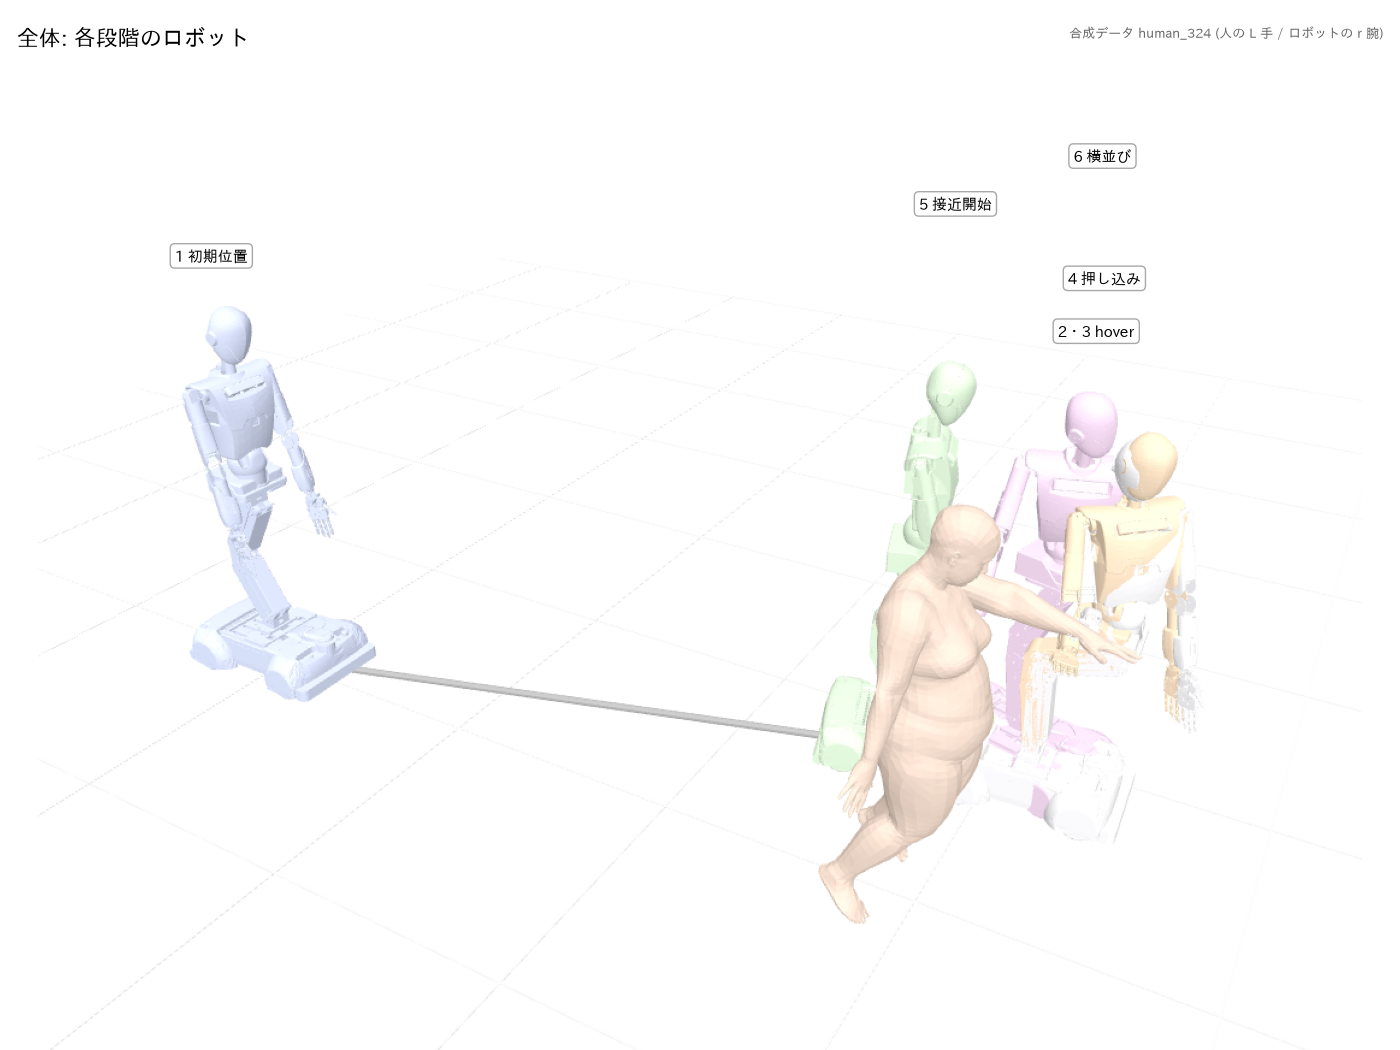
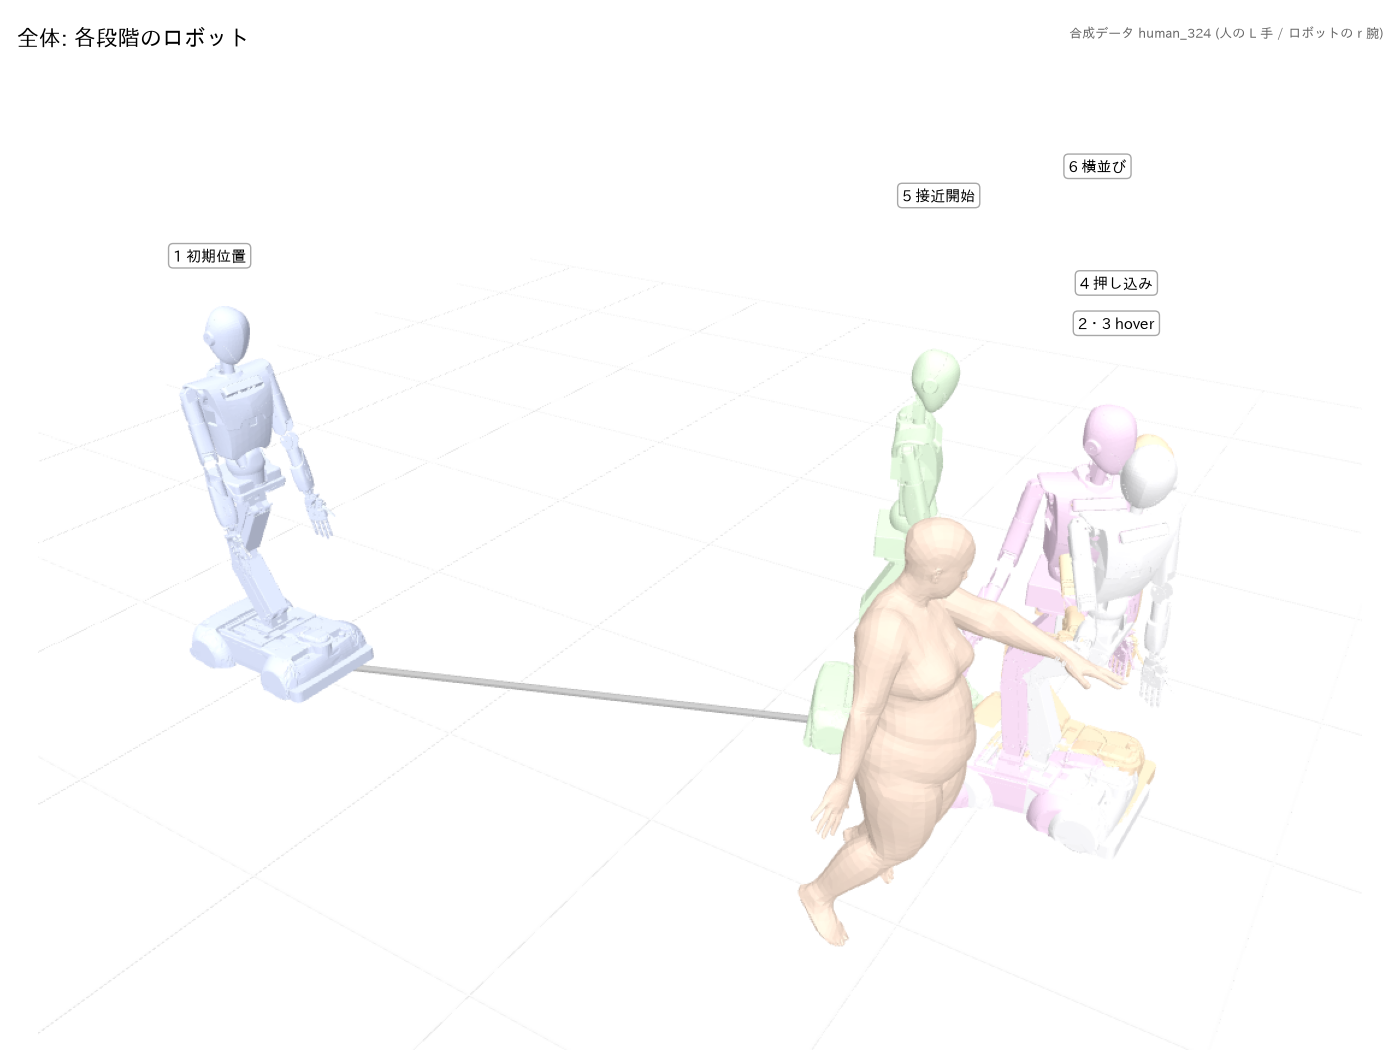
段階図を新しい hover・押し込みの実装に合わせて作り直す
段階別の図・説明 (docs/handshake_pipeline_stages.md) とツール
(tools/render_pipeline_stages.py) が、hover を変える前 (a756889 より前) の
計算方法のままだったので、コミット 45f8596 のコードで合成 400 人を計画し直して
画像を作り直した。

- hover 目標は押し込みの最終目標を法線方向に 3 cm 浮かせ、指先と逆に 15 cm
  ずらした位置。押し込みの手先目標の曲線を表示する。
- 第 1 段の干渉ペアは差し出した前腕 (2 cm で効くよう細らせた円柱) の 4 組。
- hover の検証と接近軌道は、差し出した手まわりだけ 2 cm (それ以外は 6 / 5 cm)。
  余裕の最小は実際の検証と同じ human_clearance_thresholds / shortfall で測る。
- 押し込みは曲線上の 8 点を腕の IK で解き、台車も指先方向へ近づく。各点を
  手まわり以外 5 cm で検証する。途中の点のロボットと台車の動きを表示する。
- 人体の膜を部位ごとの距離で描き、差し出した手まわりは別のレイヤーにする。
- ik_and_motion_constraints.md の hover・押し込み・干渉ペアの記述は古いままで、
  新しい docs に注記した (更新は別途)。

diff --git a/tools/render_pipeline_stages.py b/tools/render_pipeline_stages.py
@@ -1041,33 +1041,72 @@ class StageBuilder(object):
             np.dot(axis, to_palm / np.linalg.norm(to_palm)), -1, 1))))
         self_dist, self_pair = self.self_min_distance()
         offered = spik.offered_hand_obstacle_indices(p.hand)
+        # 押し込み区間 (曲線上の点を腕の IK で解き、台車も指先を押し出すのと
+        # 同時に近づく) の各点を、押し込みと同じ検証 (自己干渉と、差し出した
+        # 手まわり以外の人体 5 cm) にかける。
+        press_names = post['joint_names']
+        path_wps = [dict(joint_angle_vector=av, base_position=[b[0], b[1], 0.0],
+                         base_yaw=b[2])
+                    for av, b in zip(post.get('press_in_path') or [],
+                                     post.get('press_in_base_path') or [])]
+        press_thresholds = self.thresholds(
+            spik.PRESS_IN_HUMAN_CLEARANCE, hand_clearance=None)
+        worst = None
+        for k, w in enumerate(path_wps + [wp]):
+            set_both(self.robots, w, press_names)
+            r = self.shortfall(p.collision_joints, press_thresholds)
+            if r is not None and (worst is None or r[2] < worst[2]):
+                worst = r + (k + 1,)
+        self.pose(wp)
+        shift = np.asarray(wp['base_position'][:2]) - np.asarray(
+            p.handshake['base_position'][:2])
         stage = Stage(
-            '04_press_in', '4. 第2段: 押し込み姿勢 + 視線 (台車は動かさない)',
-            ['腕: 掌 - 法線 × 0.01 m (掌に 1 cm めり込む位置) へ、第 1 段と同じ向きで '
-             '6 自由度 (0.01 m / 5°)。首: カメラ光軸を掌へ (5°、首ロールは 0° 固定)。'
-             'この人の視線のずれ {:.1f}°{}。'.format(
+            '04_press_in', '4. 第2段: 押し込み (曲線上の手先目標を順に解く) + 視線',
+            ['hover 目標から最終目標 (掌 - 法線 × 0.01 m) まで、指先を {:.0f} cm '
+             '押し出しながら法線方向に {:.0f} cm 詰める曲線上の {} 点を、腕の IK で順に'
+             '解く (最後の点は第 2 段の後処理 IK)。台車は押し出すのと同時に指先の'
+             '方向へ {:.2f} m 近づく (向きは変えない)。'.format(
+                 100 * spik.PRESS_IN_SLIDE, 100 * spik.PRESS_IN_LIFT,
+                 len(path_wps) + 1, float(np.linalg.norm(shift))),
+             '首: カメラ光軸を掌へ (5°、首ロールは 0° 固定)。この人の視線のずれ '
+             '{:.1f}°{}。'.format(
                  gaze_err, '、腕だけで解いた代替' if post.get('arm_only') else ''),
-             '人体との判定はしない (人の掌に触れる姿勢のため)。'
-             '自己干渉だけ検証 (最小 {:+.1f} mm: {} × {})。'.format(
-                 1000.0 * self_dist, *self_pair),
-             'hover → 押し込みの区間も経路としては計画・検証しない。'
-             '実機では hover 到着後に掌を検出し直して押し込みを解き直す '
+             '検証: 各点で自己干渉 (最終姿勢の最小 {:+.1f} mm: {} × {}) と、'
+             '差し出した手まわり以外の人体から {:.0f} cm。手まわりは掌に触れるので'
+             '見ない。この人の余裕が最小の点: {}。'.format(
+                 1000.0 * self_dist, *self_pair,
+                 100 * spik.PRESS_IN_HUMAN_CLEARANCE,
+                 '{} 点目で {} まで {:.1f} cm (余裕 {:+.1f} cm)'.format(
+                     worst[3], spik.human_obstacle_names()[worst[0]],
+                     100.0 * worst[1], 100.0 * worst[2])
+                 if worst is not None else '-'),
+             '実機では hover 到着後に掌を検出し直して、同じ曲線で押し込みを解き直す '
              '(refine_post_process)。'])
         stage.set_robot(wp, self.joint_names, '押し込み')
         s = stage.scene
-        s.layer('visual', 'ロボット (押し込み姿勢)')
+        s.layer('visual', 'ロボット (押し込みの最終姿勢)')
         s.add(robot_visual_mesh(self.visual), ROBOT_COLOR)
+        s.layer('path_ghosts', 'ロボット: 押し込みの途中の点',
+                'hover → 最終姿勢の曲線上の点 (半透明)。台車も一緒に近づく')
+        for w in path_wps:
+            set_both(self.robots, w, press_names)
+            s.add(robot_visual_mesh(self.visual), ROBOT_GHOST_COLOR)
+        self.pose(wp)
         s.layer('coll', 'ロボットの干渉形状 (自己干渉の判定)',
                 default=False, colors=[ROBOT_COLL_COLOR])
         add_robot_collision(s, self.ik)
         s.layer('excluded', '判定しない: 差し出した手・前腕',
-                '掌に触れる姿勢なので当たるのが正しい (人体との判定は全身しない)',
-                colors=[EXCLUDED_COLOR])
-        s.layer('cyl', '人体のその他の円柱 (この段階は判定なし)',
-                colors=[(80, 140, 220, 40)])
+                '掌に触れるので当たるのが正しい', colors=[EXCLUDED_COLOR])
+        s.layer('cyl', '人体のその他の円柱 (5 cm で検証)',
+                colors=[HUMAN_CYL_COLOR])
+        s.layer('shell', '人体 + 5 cm (近づけない範囲)',
+                '押し込み区間の各点で、差し出した手まわり以外はこの範囲に入らない',
+                colors=[HUMAN_SHELL_COLOR])
         colors = {i: EXCLUDED_COLOR for i in offered}
         add_human_cylinders(s, p.collision_joints, colors,
-                            default=(80, 140, 220, 40))
+                            shell=hand_shell(p.hand,
+                                             spik.PRESS_IN_HUMAN_CLEARANCE,
+                                             None))
         s.layer('smpl', '人 (SMPL)')
         s.add(p.smpl_mesh(cam_pos), SKIN_FADED_COLOR)
         self.palm_markers(s, hover=True)
@@ -1076,31 +1115,38 @@ class StageBuilder(object):
                 'ずれ {:.1f}°'.format(gaze_err))
         s.add(tube([cam_pos, cam_pos + axis * np.linalg.norm(
             to_palm) * 1.05], 0.006), GAZE_COLOR)
-        # hover の手先からの押し込みの向き。
-        self.pose(hover_wp(p))
-        hover_hand = self.end_coords().worldpos()
-        self.pose(wp)
-        s.layer('press_dir', 'hover → 押し込みの手先の動き',
-                '経路としては計画・検証しない区間')
-        s.add(arrow(hover_hand, self.end_coords().worldpos(),
-                    radius=0.006), TARGET_PRESS_COLOR)
         base = np.asarray(wp['base_position'])
         self.default_view(stage, base, turn=25.0, elevation=18.0)
         zoom(stage, p.palm, 0.9)
 
+        hover_base = np.asarray(p.handshake['base_position'][:2])
+
         def draw(ax):
-            self.top_common(ax, robot_wps=[(wp, {})], human_colors=colors)
+            self.top_common(ax, robot_wps=[(wp, {})], human_colors=colors,
+                            shell=hand_shell(p.hand,
+                                             spik.PRESS_IN_HUMAN_CLEARANCE,
+                                             None))
             ax.plot([cam_pos[0], p.palm[0]], [cam_pos[1], p.palm[1]],
                     color=rgba(GAZE_COLOR)[:3], lw=2, zorder=9)
             ax.annotate('視線', (cam_pos[:2] + p.palm[:2]) / 2.0,
                         fontsize=9, color='goldenrod', zorder=9)
+            ax.plot(p.press_curve[:, 0], p.press_curve[:, 1], '-',
+                    color=rgba(PRESS_CURVE_COLOR)[:3], lw=2, zorder=9)
+            pts = np.array([hover_base] + [w['base_position'][:2]
+                                           for w in path_wps]
+                           + [wp['base_position'][:2]])
+            ax.plot(pts[:, 0], pts[:, 1], '.-', color='tab:purple', lw=1.5,
+                    zorder=9)
         stage.draw_top = draw
-        stage.top_limits = self.top_limits_around([p.standing, base, p.palm],
-                                                  margin=0.6)
+        stage.top_limits = self.top_limits_around(
+            [p.standing, base, hover_base, p.palm], margin=0.6)
         stage.legend = [
             legend_handle(EXCLUDED_COLOR, '判定しない (差し出した手・前腕)'),
+            legend_handle(HUMAN_SHELL_COLOR, '人体 + 5 cm'),
             legend_handle(GAZE_COLOR, 'カメラ光軸', 'line'),
-            legend_handle(TARGET_PRESS_COLOR, '押し込み目標', 'marker')]
+            legend_handle(PRESS_CURVE_COLOR, '手先目標の曲線', 'line'),
+            legend_handle((160, 32, 240, 255), '台車の動き (hover → 押し込み)',
+                          'line')]
         return stage
 
     # -- 5. 接近軌道 ------------------------------------------------------
@@ -1117,15 +1163,17 @@ class StageBuilder(object):
             orbit_center=center)
         radius = (float(np.linalg.norm(base_goal[:2] - center))
                   + phm.DEFAULT_APPROACH_DISTANCE)
-        # 各 waypoint の人体までの最短距離 (検証と同じ指ありモデル)。
-        closest = (float('inf'), None, None)
+        # 各 waypoint の人体までの余裕 (検証と同じ指ありモデル・同じ判定:
+        # 全身 5 cm、差し出した手まわりだけ 2 cm)。
+        clearance = phm.DEFAULT_HUMAN_CLEARANCE
+        hand_clearance = spik.OFFERED_HAND_CLEARANCE
+        approach_thresholds = self.thresholds(clearance, hand_clearance)
+        closest = (float('inf'), None, None, None)  # (余裕, k, 部位, 距離)
         for k, wp in enumerate(waypoints):
             self.pose(wp)
-            clearances = self.clearances(p.collision_joints)
-            if clearances:
-                index = min(clearances, key=clearances.get)
-                if clearances[index] < closest[0]:
-                    closest = (clearances[index], k, index)
+            r = self.shortfall(p.collision_joints, approach_thresholds)
+            if r is not None and r[2] < closest[0]:
+                closest = (r[2], k, r[0], r[1])
         kinds = {'pretouch': 'pre-touch 経由', 'linear': '線形補間',
                  'optimized': 'jaxls 最適化'}
         stage = Stage(
@@ -1138,11 +1186,15 @@ class StageBuilder(object):
              '採る (この人: {}、角度 {:.0f}°)。台車の経路の範囲は制限しない。'.format(
                  kinds.get(motion['kind'], motion['kind']),
                  math.degrees(motion.get('approach_angle') or 0.0)),
-             '検証: 全 waypoint で人体から 5 cm・自己干渉 0 mm。lead-in は'
+             '検証: 全 waypoint で人体から {:.0f} cm (差し出した手・前腕だけ '
+             '{:.0f} cm。hover が掌から約 2 cm のため)・自己干渉 0 mm。lead-in は'
              '人から 1.0 m 以内の waypoint だけ検証。'
-             'この人の経路の最短: waypoint {} で {} まで {:.1f} cm。'.format(
+             'この人の余裕が最小の点: waypoint {} で {} まで {:.1f} cm '
+             '(余裕 {:+.1f} cm)。'.format(
+                 100 * clearance, 100 * hand_clearance,
                  closest[1], spik.human_obstacle_names()[closest[2]]
-                 if closest[2] is not None else '-', 100.0 * closest[0])])
+                 if closest[2] is not None else '-',
+                 100.0 * (closest[3] or 0.0), 100.0 * closest[0])])
         stage.set_robot(waypoints[0], self.joint_names, '接近開始')
         s = stage.scene
         s.layer('ghosts', 'ロボット: 接近の途中 (waypoint 0, 1/3, 2/3)',
@@ -1157,8 +1209,12 @@ class StageBuilder(object):
         s.layer('shell', '人体 + 5 cm (経路が入ってはいけない範囲)',
                 'hover の IK は 6 cm、経路の検証は 1 cm 緩い 5 cm',
                 colors=[HUMAN_SHELL_COLOR])
+        s.layer('hand_shell', '差し出した手まわり + 2 cm',
+                '掌・指・同じ側の前腕だけは 2 cm', colors=[HAND_SHELL_COLOR])
         add_human_cylinders(s, p.collision_joints,
-                            shell=phm.DEFAULT_HUMAN_CLEARANCE)
+                            shell=hand_shell(p.hand, clearance,
+                                             hand_clearance),
+                            hand_shell_color=HAND_SHELL_COLOR, hand=p.hand)
         s.layer('smpl', '人 (SMPL)')
         s.add(p.smpl_mesh(self.end_coords().worldpos()), SKIN_FADED_COLOR)
         z = FLOOR_Z * 3
@@ -1203,7 +1259,8 @@ class StageBuilder(object):
             ax.add_patch(patches.Circle(center, radius, fc='none', ec='0.4',
                                         lw=1.0, ls=':', zorder=1))
             self.top_common(ax, robot_wps=[(waypoints[-1], {})],
-                            shell=phm.DEFAULT_HUMAN_CLEARANCE)
+                            shell=hand_shell(p.hand, clearance,
+                                             hand_clearance))
             for wp in (lead_in[:1] if lead_in else []):
                 self.pose(wp)
                 top_robot(ax, self.ik, color=(150, 150, 150, 70))
@@ -1242,7 +1299,7 @@ class StageBuilder(object):
         stage.legend = [
             legend_handle(LEAD_IN_COLOR, 'lead-in (回転 → 直進)', 'dash'),
             legend_handle(PATH_COLOR, '接近の台車の経路', 'line'),
-            legend_handle(HUMAN_SHELL_COLOR, '人体 + 5 cm'),
+            legend_handle(HUMAN_SHELL_COLOR, '人体 + 5 cm (手まわりは 2 cm)'),
             legend_handle((220, 60, 60, 60), 'lead-in の検証範囲'),
             plt.Line2D([], [], color='tab:blue', marker='*', ls='', ms=12,
                        label='接近開始位置 (角度 0)'),

diff --git a/docs/ik_and_motion_constraints.md b/docs/ik_and_motion_constraints.md
@@ -4,7 +4,8 @@
 その間に挟む干渉の事後検証、接近軌道の計画で、それぞれ何を制約・コストに
 入れているかをまとめる。値はすべて 2026-10-13 時点のコードの既定値。定数名は `solve_palm_ik.py` (`spik`)、
 `plan_handshake_motion.py` (`phm`)、`side_by_side_transition.py` (`sbs`)
-のもの。
+のもの。各段階で考慮する干渉・台車の可動域を図で見るには
+[handshake_pipeline_stages.md](handshake_pipeline_stages.md)。
 
 全体の流れ:
 
